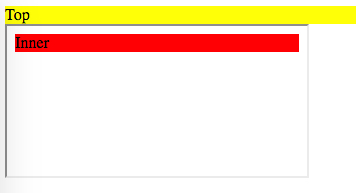
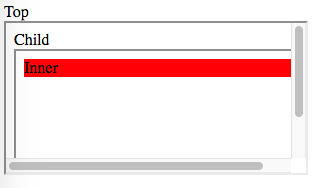
demo

diff --git a/index.html b/index.html
@@ -2,8 +2,9 @@
 <head>
 </head>
 <body>
-<div id="top">Top</div>
+<div>Top</div>
 <script src="./node_modules/jquery/dist/jquery.js"></script>
-<iframe src="./inner.html" frameborder="1"></iframe>
+<script src="./index.js"></script>
+<iframe id="child-frame" src="./child.html" frameborder="1"></iframe>
 </body>
 </html>

diff --git a/index.js b/index.js
@@ -1,0 +1,6 @@
+$(window).on('load', function () {
+    const $childFrame = $('iframe#child-frame')
+    const $innerFrame = $childFrame.contents().find('iframe#inner-frame')
+    const $inner = $innerFrame.contents().find('#inner')
+    $inner.css('background-color', 'red')
+})

diff --git a/child.html b/child.html
@@ -1,0 +1,8 @@
+<html>
+<head>
+</head>
+<body>
+<div>Child</div>
+<iframe id="inner-frame" src="./inner.html" frameborder="1"></iframe>
+</body>
+</html>

diff --git a/inner.html b/inner.html
@@ -1,6 +1,5 @@
 <html>
 <body>
 <div id="inner">Inner</div>
-<script src="./inner.js"></script>
 </body>
 </html>

diff --git a/README.md b/README.md
@@ -1,17 +1,21 @@
-JavaScript Call Top JQuery From Inner IFrame Demo
-=================================================
+JavaScript Find Element in Inner Nested IFrame Demo
+===================================================
 
-如果我们在内部iframe的JavaScript中，直接引用top的jquery去寻找元素，比如：
+如果一个页面中有嵌套的iframe，如何在最上层的window中找到最内层的iframe中的某个元素呢？
 
-```
-window.top.$('#aa')
-```
+关键点：
 
-它会从top的document中寻找`#aa`，而不是内部iframe。需要指定具体的document：
+1. 监听最上层的window的`load`事件即可。
+  `load`事件只有当一个window所需要的全部资源（包括image/iframe）加载完成之后才会fire。
+  如果iframe中还有iframe，也会等到最内层的iframe加载完成。
+  所以我们只需要在最外层的window监听`load`事件，就可以放心的对内层进行操作
+2. 与之相应的`ready`，是仅当DOM完成（不包括资源的加载）
 
-```
-window.top.$('#aa', window.document)
-```
+几个坑：
+
+1. 在之前的版本中，`load`既有可能是一个方法，也有可能是一个event handler，但是现在的代码中，不再是handler，所以需要`on('load', fn)`。这是一个改进。
+2. `ready`的写法也统一成了`$(handler)`，而不再像之前`$(element).ready(handle)`。后者会给人误导，以为是在关注某个元素，实际上就是整个document，只有一种可能。
+3. `$(document).html()`是不行的，`$(document.head).html()`也是不行的。必须是body中的元素，比如`$(document.body).html()`或者`$('#xxx').html()`
 
 运行：
 
